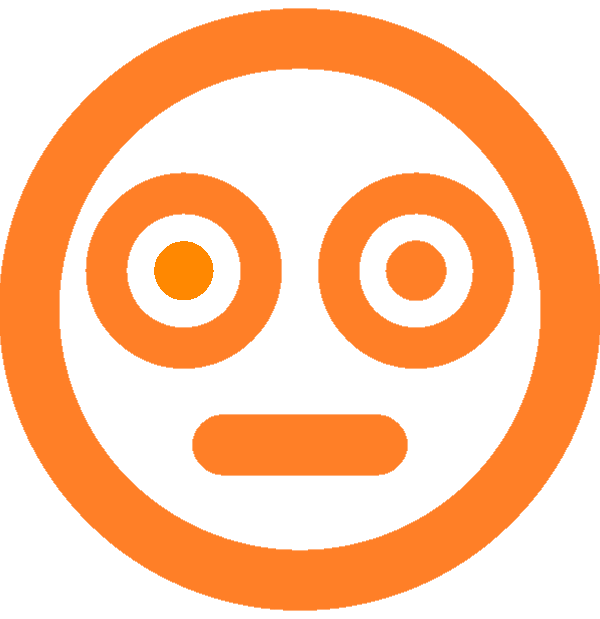
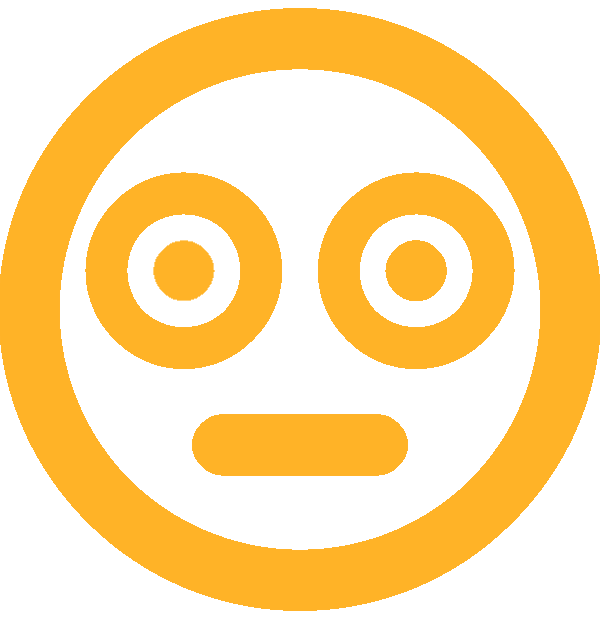
final feedback design

diff --git a/assets/email-templates/feedback.html b/assets/email-templates/feedback.html
@@ -174,13 +174,13 @@
     }
 
     .btn.btn-bad {
-      color: #ff7f27;
-      border-color: #ff7f27;
+      color: #ffb327;
+      border-color: #ffb327;
     }
 
     .td-rating:hover .btn.btn-bad{
       color: #fff;
-      background-color: #ff7f27;
+      background-color: #ffb327;
     }
 
 
@@ -315,9 +315,9 @@
                   <table role="presentation" border="0" cellpadding="0" cellspacing="0">
                     <tr>
                       <td>
-                        <p>Ahoj</p>
+                        <p>Ahoj,</p>
                         <p>pevně věříme, že kvalitní prostředí je základem spokojenosti každého z nás. Dáváme si záležet, abychom byli pro ostatní společnosti a týmy vzorem, a rádi bychom touto cestou od tebe dostali zpětnou vazbu. </p>
-                        <p>Dej nám vědět, jaký jsi měl týden v práci. Nemusíš klikat pokaždé, není to nic poviného. Je to prostě příležitost dát najevo tvou spokojenost 😊.</p>
+                        <p>Dej nám vědět, jaký jsi měl týden v práci. Nemusíš klikat pokaždé, není to nic povinného. Je to prostě příležitost dát najevo tvou spokojenost 😊.</p>
                         <p>Tato zpětná vazba nám pomáhá reagovat na potřeby členů týmu. Vidíme, kdo a jak reagoval. Pokud s něčím nesouhlasíš, rozzlobil tě klient či práce na projektu, nebo naopak jsi spokojený, tvá práce tě baví či chceš ocenit maličkosti jako je třeba povedený teambuilding apod., neboj se nám to dát vědět. Alespoň touto formou. Uděláme maximum pro to, aby členové týmu byli ti nejspokojenější ✌.</p>
                         <br>
                         <table role="presentation" border="0" cellpadding="0" cellspacing="0" class="feedback">
@@ -346,7 +346,7 @@
               <table role="presentation" border="0" cellspacing="0" cellpadding="0">
                 <tr>
                   <td class="content-block">
-                    <span class="apple-link">© TechFides Solutions s.r.o. 2014 - 2019</span>
+                    <span class="apple-link">© TechFides 2014 - 2019</span>
                   </td>
                 </tr>
               </table>

diff --git a/resources/pages/heatmap.vue b/resources/pages/heatmap.vue
@@ -147,7 +147,7 @@ export default {
 }
 
 .bad {
-  background-color: #ff7f27;
+  background-color: #ffb327;
 }
 
 .light-green {
